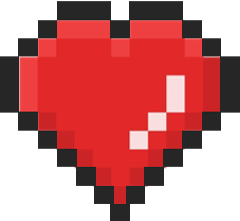
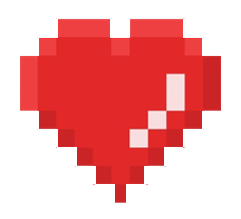
added lives to Game and corrected design

Changed region(s): [[0.0, 0.0, 1.0, 1.0], [0.525, 0.3288, 0.7875, 0.6849]]

diff --git a/src/main/resources/de/uni_passau/se/memory/gui/Style.css b/src/main/resources/de/uni_passau/se/memory/gui/Style.css
@@ -286,3 +286,13 @@
 -fx-background-image: url("Images/PointerPlayer.png");
 -fx-background-size: 100% 100%;
 }
+
+.LifeHalf{
+-fx-background-image: url("Images/LifeHalf.png");
+-fx-background-size: 100% 100%;
+}
+
+.LifeHalf2{
+-fx-background-image: url("Images/LifeHalf2.png");
+-fx-background-size: 100% 100%;
+}
